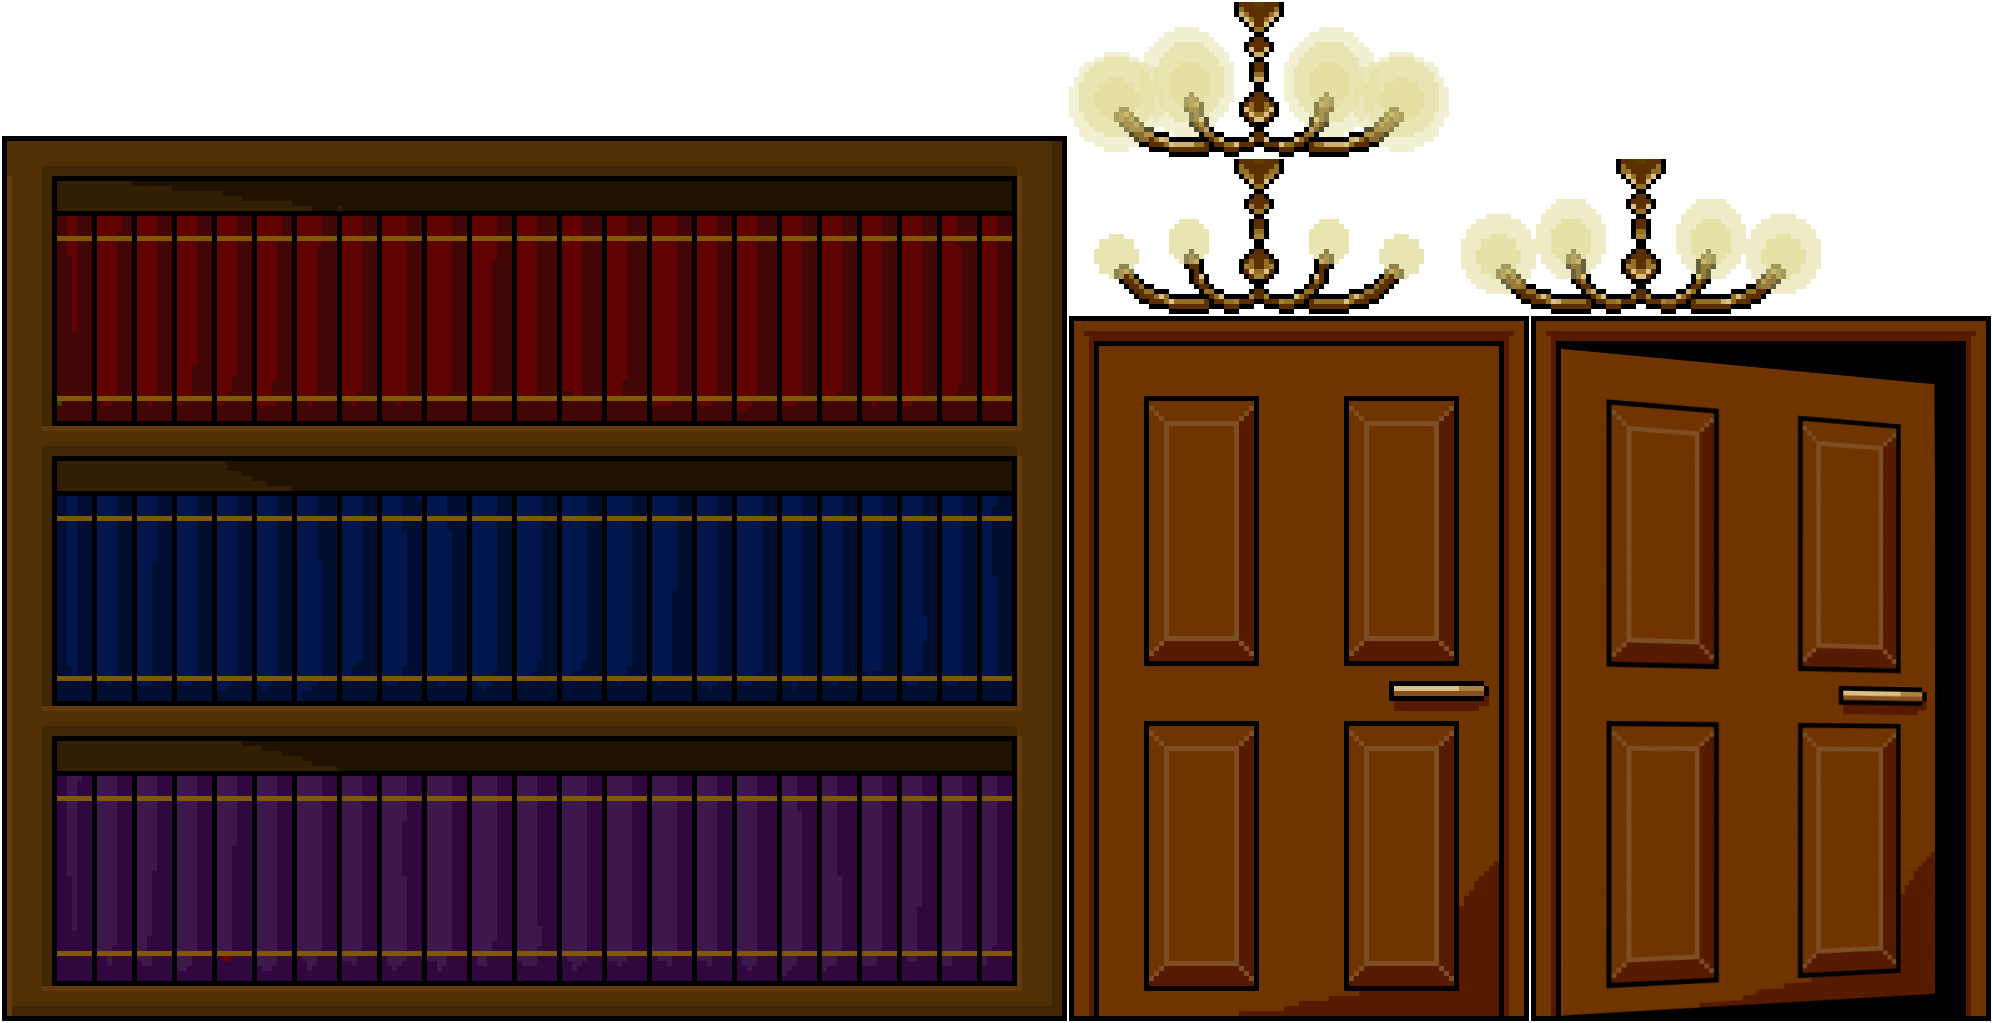
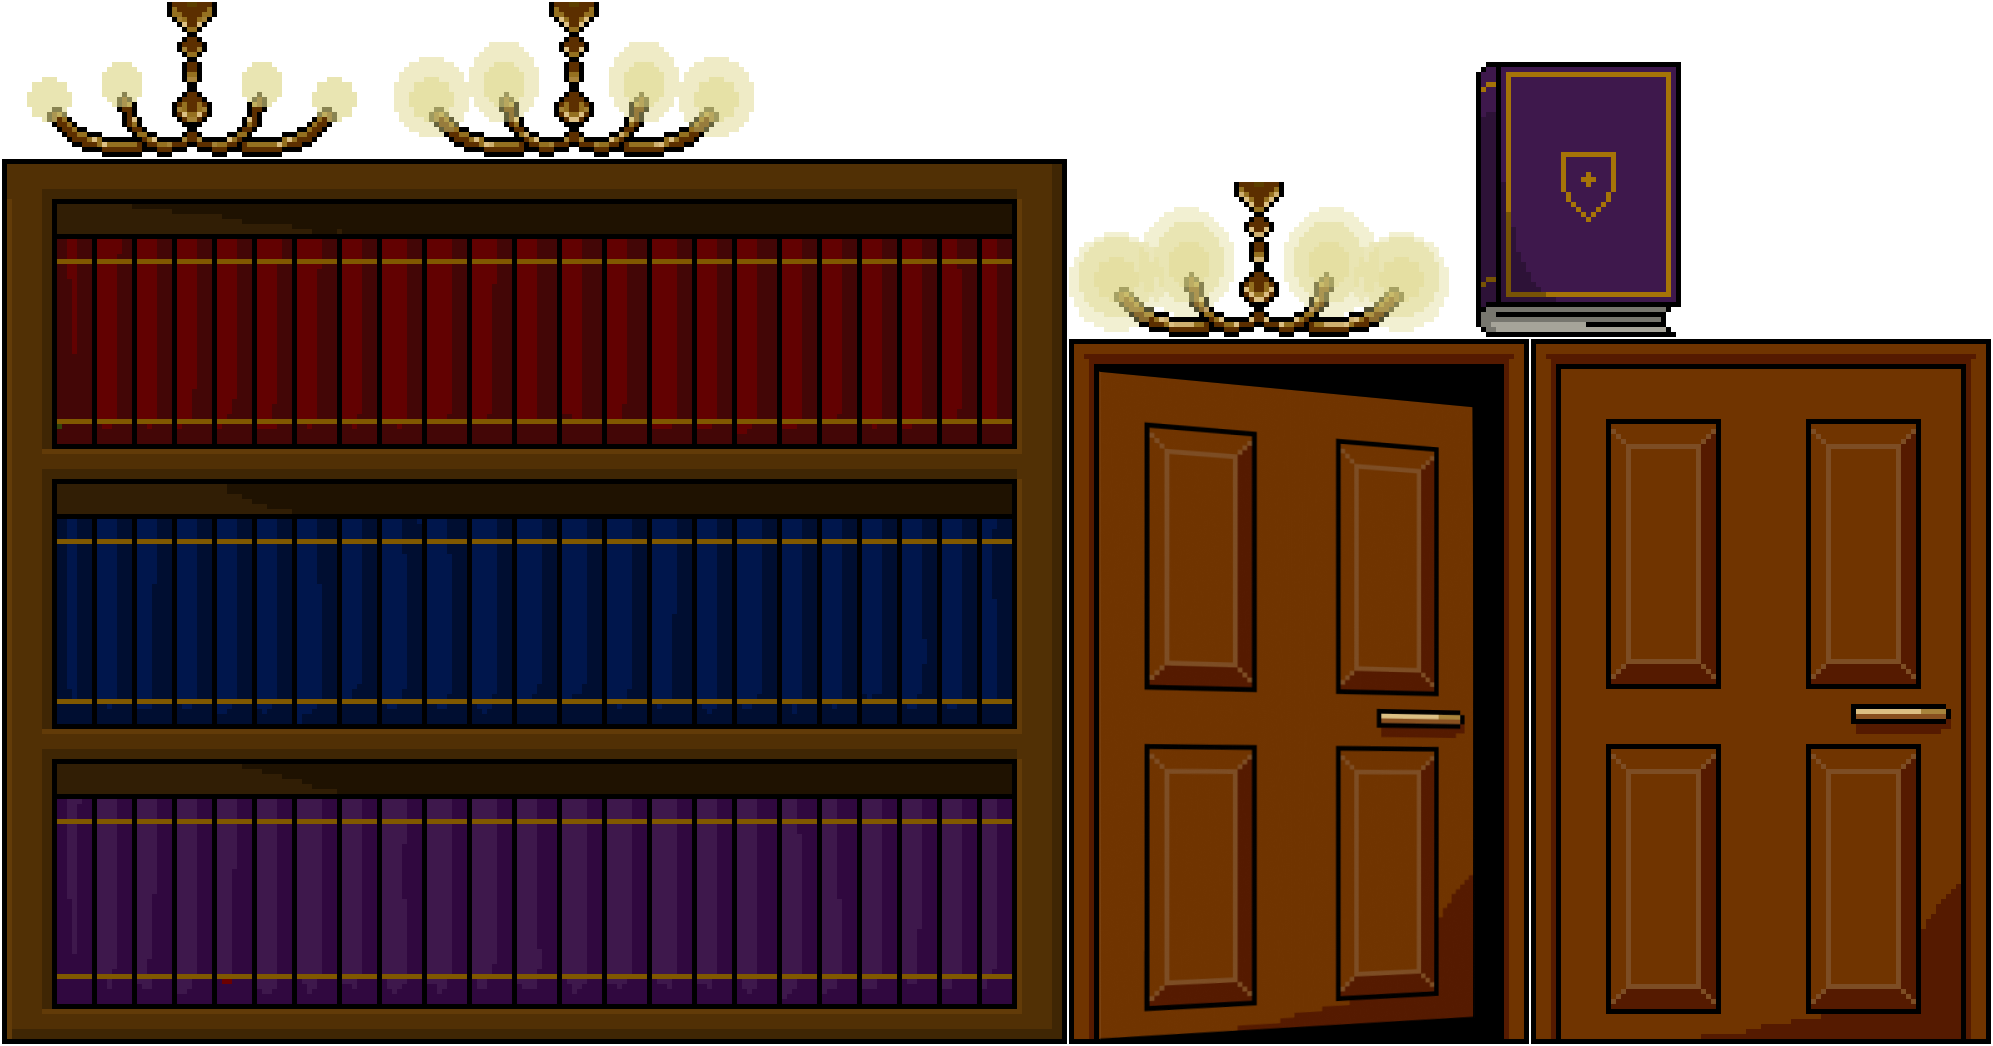
Added all sprites to game

diff --git a/core/src/com/hunter/game/kuchisake/screen/SalaSecreta.java b/core/src/com/hunter/game/kuchisake/screen/SalaSecreta.java
@@ -18,10 +18,18 @@ public class SalaSecreta extends StandardRoom implements Screen {
     TextureRegion braseiroAceso2;
     TextureRegion braseiroAceso3;
     TextureRegion braseiroApagado;
+    TextureRegion caixaMascara;
+    TextureRegion chavePrinc;
+    TextureRegion maskara2;
+    TextureRegion chavePorao;
 
     Sprite porta;
     Sprite braseiro1;
     Sprite braseiro2;
+    Sprite caixaMask;
+    Sprite chavePrincipal;
+    Sprite mask2;
+    Sprite chavePor;
 
     boolean isSecondFloor = false;
     boolean hasTodasPecasMascara = false;
@@ -32,12 +40,22 @@ public class SalaSecreta extends StandardRoom implements Screen {
         super(game, "Tilesets/sala_secreta.tmx", playerDoorPosX);
 
         collisions.CreateCollisions(2487+230f, 160,"doorDown0", 203, collisions.getPortaBit());
+        textureAtlas = game.getAssetManager().get("ScenaryAssets/salaSecreta/SalaSecretaObjects.atlas", TextureAtlas.class);
 
         if (!game.getInventoryManager().getItemBackpack().contains("chavePorao", false)){
+            chavePorao = textureAtlas.findRegion("chavePorao");
+            chavePor = new Sprite(chavePorao);
+            chavePor.setPosition(450 / TerrorGame.SCALE, 160 / TerrorGame.SCALE);
+            chavePor.setSize(chavePor.getWidth() / TerrorGame.SCALE, chavePor.getHeight() / TerrorGame.SCALE);
             collisions.CreateCollisions(450, 160, "chavePorao", 203, collisions.getITEM_BIT());
+
         }
 
         if (!game.getInventoryManager().getItemBackpack().contains("mask2", false)){
+            maskara2 = textureAtlas.findRegion("mask2");
+            mask2 = new Sprite(maskara2);
+            mask2.setPosition(2030 / TerrorGame.SCALE, 160/ TerrorGame.SCALE);
+            mask2.setSize(mask2.getWidth() / TerrorGame.SCALE, mask2.getHeight() / TerrorGame.SCALE);
             collisions.CreateCollisions(2030, 160, "mask2", 203, collisions.getITEM_BIT());
         }
 
@@ -48,18 +66,20 @@ public class SalaSecreta extends StandardRoom implements Screen {
             collisions.CreateCollisions(1750, 160, "chavePrincipal", 203, collisions.getITEM_BIT());
         }
 
-
-        textureAtlas = game.getAssetManager().get("ScenaryAssets/salaSecreta/SalaSecretaObjects.atlas", TextureAtlas.class);
         portaFechada = textureAtlas.findRegion("portaCorredor1");
         portaAberta = textureAtlas.findRegion("portaCorredor2");
         braseiroAceso1 = textureAtlas.findRegion("braseiro aceso1");
         braseiroAceso2 = textureAtlas.findRegion("braseiro aceso2");
         braseiroAceso3 = textureAtlas.findRegion("braseiro aceso3");
         braseiroApagado = textureAtlas.findRegion("braseiro apagado");
+        caixaMascara = textureAtlas.findRegion("caixa mascara");
+        chavePrinc = textureAtlas.findRegion("chavePrincipal");
 
         porta = new Sprite(portaFechada);
         braseiro1 = new Sprite(braseiroApagado);
         braseiro2 = new Sprite(braseiroApagado);
+        caixaMask = new Sprite(caixaMascara);
+        chavePrincipal = new Sprite(chavePrinc);
 
         porta.setSize(porta.getWidth() / TerrorGame.SCALE, porta.getHeight() / TerrorGame.SCALE);
         porta.setPosition(2487 / TerrorGame.SCALE, 160 / TerrorGame.SCALE);
@@ -70,7 +90,13 @@ public class SalaSecreta extends StandardRoom implements Screen {
         
         braseiro2.setSize(braseiro2.getWidth() / TerrorGame.SCALE, braseiro2.getHeight() / TerrorGame.SCALE);
         braseiro2.setPosition(2095 / TerrorGame.SCALE, 160 / TerrorGame.SCALE);
-        
+
+        caixaMask.setSize(caixaMask.getWidth() / TerrorGame.SCALE, caixaMask.getHeight() / TerrorGame.SCALE);
+        caixaMask.setPosition((1594 / TerrorGame.SCALE) + (caixaMask.getWidth() / 14), (160+415) / TerrorGame.SCALE);
+
+        chavePrincipal.setSize(chavePrincipal.getWidth() / (TerrorGame.SCALE * 2), chavePrincipal.getHeight() / (TerrorGame.SCALE * 2));
+        chavePrincipal.setPosition(1750 / TerrorGame.SCALE - (chavePrincipal.getWidth() / 2), (160 + 415) / TerrorGame.SCALE );
+
         braseiroAnimation = new ObjectAnimation(0.2f, new TextureRegion[] {braseiroAceso1, braseiroAceso2, braseiroAceso3});
     }
 
@@ -95,11 +121,25 @@ public class SalaSecreta extends StandardRoom implements Screen {
         
         braseiro2.setRegion(braseiroAnimation.changeFrame(delta));
         braseiro2.draw(game.batch);
-        
-        porta.draw(game.batch);
+
+        if (!game.getInventoryManager().getItemBackpack().contains("chavePorao", false)){
+            chavePor.draw(game.batch);
+        }
+
+        if (!game.getInventoryManager().getItemBackpack().contains("mask2", false)){
+            mask2.draw(game.batch);
+        }
+
+        if (hasTodasPecasMascara && !game.getInventoryManager().getItemBackpack().contains("chavePrincipal", false)){
+            chavePrincipal.draw(game.batch);
+        } else if (!game.getInventoryManager().getItemBackpack().contains("chavePrincipal", false)){
+            caixaMask.draw(game.batch);
+        }
+
         game.getKuchisakeOnna().draw(game.batch);
         player.draw(game.batch);
 
+        porta.draw(game.batch);
         game.batch.end();
 
         debugRenderer.render(world, camera.combined);

diff --git a/core/src/com/hunter/game/kuchisake/screen/Quarto.java b/core/src/com/hunter/game/kuchisake/screen/Quarto.java
@@ -8,7 +8,6 @@ import com.badlogic.gdx.maps.tiled.TiledMap;
 import com.hunter.game.kuchisake.TerrorGame;
 import com.hunter.game.kuchisake.objects.ObjectAnimation;
 
-import javax.xml.stream.FactoryConfigurationError;
 
 public class Quarto extends StandardRoom implements Screen {
 
@@ -26,7 +25,9 @@ public class Quarto extends StandardRoom implements Screen {
     TextureRegion lustre3;
     TextureRegion lustre4;
     TextureRegion quadro;
+    TextureRegion maskara4;
 
+    Sprite mask4;
     Sprite porta;
     Sprite chaveSprite;
     Sprite abajur;
@@ -60,9 +61,10 @@ public class Quarto extends StandardRoom implements Screen {
         //Colisao do quadro da cabeca de cachorro faltando
         collisions.CreateCollisions(300, 160, "objetoMundo", 203, collisions.getINTERACTIBLE_BIT());
 
-        if (!game.getInventoryManager().getItemBackpack().contains("mask4", false) && !isQuadroSemCachorro) {
-            collisions.CreateCollisions(1750, 160, "mask4", 203, collisions.getITEM_BIT());
-        }
+        maskara4 = textureAtlas.findRegion("mask4");
+        mask4 = new Sprite(maskara4);
+        mask4.setSize(mask4.getWidth() / TerrorGame.SCALE, mask4.getHeight() / TerrorGame.SCALE);
+        mask4.setPosition(300 / TerrorGame.SCALE - (mask4.getWidth() / 2), 500 / TerrorGame.SCALE);
         
         portaFechada = textureAtlas.findRegion("portaCorredor1");
         portaAberta = textureAtlas.findRegion("portaCorredor2");
@@ -114,8 +116,6 @@ public class Quarto extends StandardRoom implements Screen {
 
         game.batch.begin();
         
-        quadroSprite.draw(game.batch);
-        
         if(game.getMinigameManager().getGeradorCompleted()) {
         	abajur.setRegion(abajurAnimation.changeFrame(delta));
         	lustre.setRegion(lustreAnimation.changeFrame(delta));
@@ -125,6 +125,12 @@ public class Quarto extends StandardRoom implements Screen {
         
         if (!game.getInventoryManager().getItemBackpack().contains("chaveBiblio", false)) {
         	chaveSprite.draw(game.batch);
+        }
+
+        if (isQuadroSemCachorro && !game.getInventoryManager().getItemBackpack().contains("mask4", false)){
+            quadroSprite.draw(game.batch);
+        } else if (!isQuadroSemCachorro && !game.getInventoryManager().getItemBackpack().contains("mask4", false)){
+            mask4.draw(game.batch);
         }
         
         game.getKuchisakeOnna().draw(game.batch);
@@ -147,9 +153,11 @@ public class Quarto extends StandardRoom implements Screen {
         
         game.getMinigameManager().minigameUpdate(delta, 0);
         
-        if (player.getChangeObjectVisual() && inventoryManager.getItemBackpack().contains("cachorro", false) && !game.getInventoryManager().getItemBackpack().contains("mask4", false)){
+        if (player.getChangeObjectVisual() &&
+                inventoryManager.getItemBackpack().contains("cachorro", false) &&
+                !game.getInventoryManager().getItemBackpack().contains("mask4", false)){
             isQuadroSemCachorro = false;
-            collisions.CreateCollisions(1750, 160, "mask4", 203, collisions.getITEM_BIT());
+            collisions.CreateCollisions(300, 160, "mask4", 203, collisions.getITEM_BIT());
         }
         
         if (player.getCanChangeRoom()){

diff --git a/core/src/com/hunter/game/kuchisake/screen/Biblioteca.java b/core/src/com/hunter/game/kuchisake/screen/Biblioteca.java
@@ -1,6 +1,7 @@
 package com.hunter.game.kuchisake.screen;
 
 import com.badlogic.gdx.Screen;
+import com.badlogic.gdx.audio.Sound;
 import com.badlogic.gdx.graphics.g2d.Sprite;
 import com.badlogic.gdx.graphics.g2d.TextureAtlas;
 import com.badlogic.gdx.graphics.g2d.TextureRegion;
@@ -21,7 +22,9 @@ public class Biblioteca extends StandardRoom implements Screen {
     TextureRegion lustre3;
     TextureRegion lustre4;
     TextureRegion estante;
+    TextureRegion livro;
 
+    Sprite livro3;
     Sprite porta1;
     Sprite porta2;
     Sprite estanteSprite1;
@@ -45,7 +48,11 @@ public class Biblioteca extends StandardRoom implements Screen {
         textureAtlas = game.getAssetManager().get("ScenaryAssets/biblioteca/BibliotecaObjects.atlas", TextureAtlas.class);
 
         if (!game.getInventoryManager().getItemBackpack().contains("livro3", false)) {
-            collisions.CreateCollisions(875, 160, "livro3", 203, collisions.getITEM_BIT());
+            collisions.CreateCollisions(750, 160, "livro3", 203, collisions.getITEM_BIT());
+            livro = textureAtlas.findRegion("livro3");
+            livro3 = new Sprite(livro);
+            livro3.setSize(livro3.getWidth() / (TerrorGame.SCALE * 2), livro3.getHeight() / (TerrorGame.SCALE * 2));
+            livro3.setPosition((750 / TerrorGame.SCALE) - (livro3.getWidth() / 2), 160 / TerrorGame.SCALE);
         }
 
         portaFechada = textureAtlas.findRegion("portaCorredor1");
@@ -102,6 +109,11 @@ public class Biblioteca extends StandardRoom implements Screen {
         porta2.draw(game.batch);
         estanteSprite1.draw(game.batch);
         estanteSprite2.draw(game.batch);
+
+        if (!game.getInventoryManager().getItemBackpack().contains("livro3", false)) {
+            livro3.draw(game.batch);
+        }
+
         game.getKuchisakeOnna().draw(game.batch);
         player.draw(game.batch);
         porta1.draw(game.batch);
@@ -132,7 +144,7 @@ public class Biblioteca extends StandardRoom implements Screen {
                 if(!canSwitchAssets) {
                 	game.getAssetManager().load("Tilesets/corredor.tmx", TiledMap.class);
                     game.getAssetManager().load("ScenaryAssets/corredor/CorredorObjects.atlas", TextureAtlas.class);
-                    
+                    game.getAssetManager().load("Audio/Sfx/porta trancada.ogg", Sound.class);
                     canSwitchAssets = true;
                 }
                 
@@ -157,7 +169,6 @@ public class Biblioteca extends StandardRoom implements Screen {
                     if(!canSwitchAssets) {
                         game.getAssetManager().load("Tilesets/sala_secreta.tmx", TiledMap.class);
                         game.getAssetManager().load("ScenaryAssets/salaSecreta/SalaSecretaObjects.atlas", TextureAtlas.class);
-
                         canSwitchAssets = true;
                     }
 

diff --git a/core/src/com/hunter/game/kuchisake/screen/Porao.java b/core/src/com/hunter/game/kuchisake/screen/Porao.java
@@ -19,7 +19,11 @@ public class Porao extends StandardRoom implements Screen {
     TextureRegion lampada3;
     TextureRegion lampada4;
     TextureRegion escada;
-    
+    TextureRegion cach;
+    TextureRegion maskara3;
+
+    Sprite cachorro;
+    Sprite mask3;
     Sprite lampada;
     Sprite escadaSprite;
 
@@ -30,17 +34,26 @@ public class Porao extends StandardRoom implements Screen {
     public Porao(TerrorGame game, float playerDoorPosX) {
         super(game, "Tilesets/porao.tmx", playerDoorPosX);
         
-        collisions.CreateCollisions(600, 160,"doorDown5", 300, collisions.getPortaBit());
+        collisions.CreateCollisions(500, 160,"doorDown5", 230, collisions.getPortaBit());
+        textureAtlas = game.getAssetManager().get("ScenaryAssets/porao/PoraoObjects.atlas", TextureAtlas.class);
 
         if (!game.getInventoryManager().getItemBackpack().contains("mask3", false)){
-            collisions.CreateCollisions(430, 160, "mask3", 230, collisions.getITEM_BIT());
+            collisions.CreateCollisions(2700, 160, "mask3", 230, collisions.getITEM_BIT());
+
+            maskara3 = textureAtlas.findRegion("mask3");
+            mask3 = new Sprite(maskara3);
+            mask3.setSize(mask3.getWidth() / TerrorGame.SCALE, mask3.getHeight() / TerrorGame.SCALE);
+            mask3.setPosition(2700 / TerrorGame.SCALE - (mask3.getWidth() / 2), 160 / TerrorGame.SCALE);
         }
 
         if (!game.getInventoryManager().getItemBackpack().contains("cachorro", false)){
             collisions.CreateCollisions(1750, 160, "cachorro", 230, collisions.getITEM_BIT());
+
+            cach = textureAtlas.findRegion("cachorro");
+            cachorro = new Sprite(cach);
+            cachorro.setSize(cachorro.getWidth() / TerrorGame.SCALE, cachorro.getHeight() / TerrorGame.SCALE);
+            cachorro.setPosition(1750 / TerrorGame.SCALE - (cachorro.getWidth() / 2), 160 / TerrorGame.SCALE);
         }
-        
-        textureAtlas = game.getAssetManager().get("ScenaryAssets/porao/PoraoObjects.atlas", TextureAtlas.class);
         
         lampada1 = textureAtlas.findRegion("lampada1");
         lampada2 = textureAtlas.findRegion("lampada2");
@@ -78,7 +91,14 @@ public class Porao extends StandardRoom implements Screen {
         }
         
         lampada.draw(game.batch);
-        
+        if (!game.getInventoryManager().getItemBackpack().contains("mask3", false)){
+            mask3.draw(game.batch);
+        }
+
+        if (!game.getInventoryManager().getItemBackpack().contains("cachorro", false)){
+            cachorro.draw(game.batch);
+        }
+
         game.getKuchisakeOnna().draw(game.batch);
         player.draw(game.batch);
         

diff --git a/core/src/com/hunter/game/kuchisake/screen/SalaEstar.java b/core/src/com/hunter/game/kuchisake/screen/SalaEstar.java
@@ -26,7 +26,9 @@ public class SalaEstar extends StandardRoom implements Screen {
     TextureRegion lareiraAcesa2;
     TextureRegion lareiraAcesa3;
     TextureRegion lareiraApagada;
+    TextureRegion maskara1;
 
+    Sprite mask1;
     Sprite porta;
     Sprite livroSprite;
     Sprite lustre;
@@ -57,9 +59,11 @@ public class SalaEstar extends StandardRoom implements Screen {
             livroSprite.setPosition(2710 / TerrorGame.SCALE - livroSprite.getWidth() / 2, 346 / TerrorGame.SCALE);
         }
 
-        if (!game.getInventoryManager().getItemBackpack().contains("mask1", false) && !isLareiraAcessa) {
-            collisions.CreateCollisions(1750, 160, "mask1", 203, collisions.getITEM_BIT());
-        }
+        maskara1 = textureAtlas.findRegion("mask1");
+
+        mask1 = new Sprite(maskara1);
+        mask1.setSize(mask1.getWidth() / TerrorGame.SCALE, mask1.getHeight() / TerrorGame.SCALE);
+        mask1.setPosition(1750 / TerrorGame.SCALE - mask1.getWidth() / 2, 160 / TerrorGame.SCALE);
 
         portaFechada = textureAtlas.findRegion("portaCorredor1");
         portaAberta = textureAtlas.findRegion("portaCorredor2");
@@ -99,12 +103,20 @@ public class SalaEstar extends StandardRoom implements Screen {
         player.playerUpdate(delta);
 
         game.batch.begin();
-        
-        lareira.setRegion(lareiraAnimation.changeFrame(delta));
-        lareira.draw(game.batch);
+
+
         
         if (!game.getInventoryManager().getItemBackpack().contains("livro1", false)) {
         	livroSprite.draw(game.batch);
+        }
+
+        lareira.draw(game.batch);
+
+        if (isLareiraAcessa && !game.getInventoryManager().getItemBackpack().contains("mask1", false)){
+            lareira.setRegion(lareiraAnimation.changeFrame(delta));
+        } else if (!isLareiraAcessa && !game.getInventoryManager().getItemBackpack().contains("mask1", false)){
+            lareira.setRegion(lareiraApagada);
+            mask1.draw(game.batch);
         }
 
         game.getKuchisakeOnna().draw(game.batch);

diff --git a/core/src/com/hunter/game/kuchisake/tools/WorldContactListener.java b/core/src/com/hunter/game/kuchisake/tools/WorldContactListener.java
@@ -49,7 +49,9 @@ public class WorldContactListener implements ContactListener{
 			} else if (object.getUserData().equals("bookshelf")) {
 				if (inventoryManager.getItemBackpack().contains("livro1", false) &&
 				inventoryManager.getItemBackpack().contains("livro2", false) &&
-				inventoryManager.getItemBackpack().contains("livro3", false)){
+				inventoryManager.getItemBackpack().contains("livro3", false)
+//						&& minigameManager.getGeradorCompleted()
+				){
 					minigameManager.setCanStartMinigame(true);
 					System.out.println("BOOKSHELF");
 					player.setminigameID(2);

diff --git a/core/src/com/hunter/game/kuchisake/tools/InventoryManager.java b/core/src/com/hunter/game/kuchisake/tools/InventoryManager.java
@@ -54,9 +54,10 @@ public class InventoryManager {
 
         selectionArrowLeft = new SelectionArrow((viewport.getWorldWidth() - 2)  / 2 - 7, viewport.getWorldHeight() / 2, false, inventoryItem, game, textureAtlas);
         selectionArrowRight = new SelectionArrow((viewport.getWorldWidth()) / 2 + 7, viewport.getWorldHeight() / 2, true, inventoryItem, game, textureAtlas);
-        
+
         addItem("chavePorao");
-        addItem("chaveBiblio");
+        addItem("livro3");
+        addItem("livro2");
     }
 
     public void openInventory(){

diff --git a/core/src/com/hunter/game/kuchisake/screen/StandardRoom.java b/core/src/com/hunter/game/kuchisake/screen/StandardRoom.java
@@ -219,7 +219,7 @@ public class StandardRoom implements com.badlogic.gdx.Screen {
 	public void render(float delta) {
 		// TODO Auto-generated method stub
 		if((game.getMinigameManager().getGeradorCompleted() && transitionScene.getActor().getColor().a == 0) || 
-				(!game.getMinigameManager().getGeradorCompleted() && transitionScene.getActor().getColor().a == 0.5f)) {
+				(!game.getMinigameManager().getGeradorCompleted() && transitionScene.getActor().getColor().a == 0.8f)) {
 			stepWorld(delta);
 		}
 		

diff --git a/core/src/com/hunter/game/kuchisake/screen/CorredorServico.java b/core/src/com/hunter/game/kuchisake/screen/CorredorServico.java
@@ -172,7 +172,7 @@ public class CorredorServico extends StandardRoom implements Screen {
 		
 		            game.getAssetManager().unload("Tilesets/corredor.tmx");
 		            game.getAssetManager().unload("ScenaryAssets/corredor/CorredorObjects.atlas");
-		            game.getAssetManager().unload("Audio/Sfx/porta trancada.ogg");
+
 		
 		            game.getAssetManager().finishLoading();
 		            game.incrementPlayerLine(-1);

diff --git a/core/src/com/hunter/game/kuchisake/screen/TransitionScene.java b/core/src/com/hunter/game/kuchisake/screen/TransitionScene.java
@@ -50,7 +50,7 @@ public class TransitionScene {
 			alphaAction.setAlpha(0);
 		}
 		else {
-			alphaAction.setAlpha(0.5f);
+			alphaAction.setAlpha(0.8f);
 		}
 		
 		alphaAction.setDuration(0.2f);
